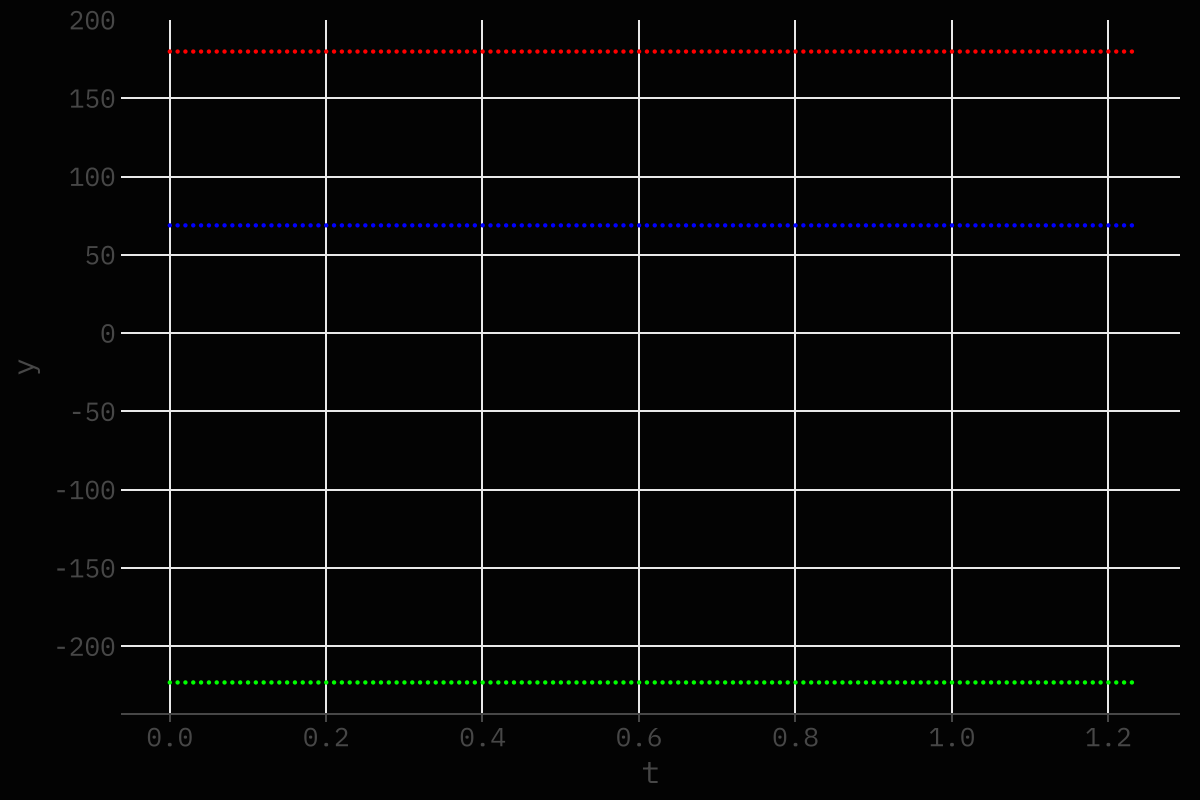
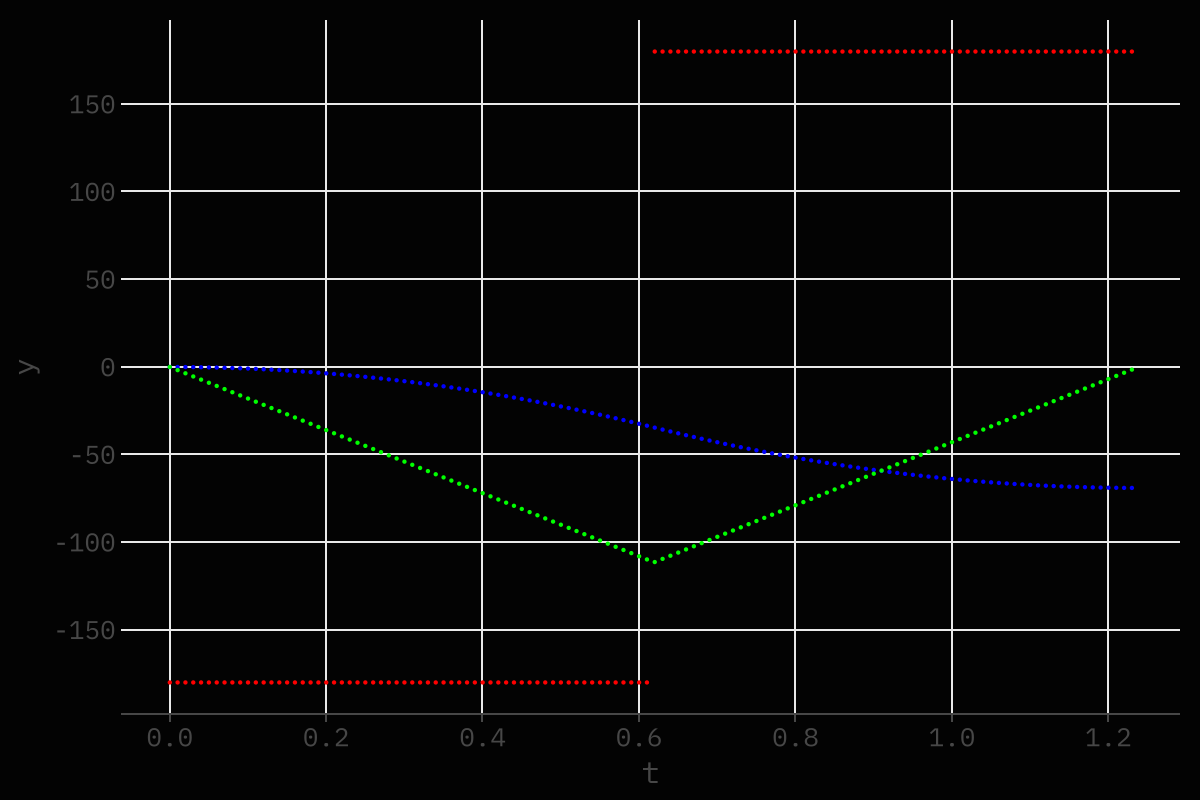
MP WORKS WOO

diff --git a/core/src/main/kotlin/com/asiankoala/koawalib/control/profile/MPTest.kt b/core/src/main/kotlin/com/asiankoala/koawalib/control/profile/MPTest.kt
@@ -1,5 +1,8 @@
 package com.asiankoala.koawalib.control.profile
 
+import com.asiankoala.koawalib.path.gvf.Constraints
+import com.asiankoala.koawalib.path.gvf.DispState
+import com.asiankoala.koawalib.path.gvf.OnlineProfile
 import jetbrains.letsPlot.elementRect
 import jetbrains.letsPlot.export.ggsave
 import jetbrains.letsPlot.geom.geomPoint
@@ -10,8 +13,8 @@ import jetbrains.letsPlot.theme
 internal object MPTest {
     @JvmStatic
     fun main(args: Array<String>) {
-        val end = MotionState(-69.0)
-        val start = MotionState(0.0)
+        val start = MotionState(-69.0)
+        val end = MotionState(0.0)
         val constraints = MotionConstraints(180.0, 180.0)
         val profile = MotionProfile.generateTrapezoidal(start, end, constraints)
 
@@ -32,6 +35,26 @@ internal object MPTest {
         }
 
         plot(st, sx, sv, sa)
+
+//        val start = DispState(0.0)
+//        val end = DispState(-69.0)
+//        val constraints = Constraints(180.0, 180.0)
+//        val profile = OnlineProfile(start, end, constraints)
+//        val sx = ArrayList<Double>()
+//        val sv = ArrayList<Double>()
+//        val resolution = 1.0
+//        var x = 0.0
+//
+//        while(x > end.x) {
+//            val state = profile[x]
+//            sx.add(x)
+//            sv.add(state.v)
+//            x -= resolution
+//        }
+//
+//        println(sx[60])
+//
+//        plotDisp(sx, sv)
     }
 
     private fun plot(
@@ -45,6 +68,17 @@ internal object MPTest {
                 geomPoint(color = "blue", size = 1.0) { x = "t"; y = "x" } +
                 geomPoint(color = "green", size = 1.0) { x = "t"; y = "v" } +
                 geomPoint(color = "red", size = 1.0) { x = "t"; y = "a" } +
+                theme(plotBackground = elementRect(fill = "black"))
+        ggsave(fig, "plot.png")
+    }
+
+    private fun plotDisp(
+        sx: ArrayList<Double>,
+        sv: ArrayList<Double>,
+    ) {
+        val data = mapOf<String, Any>("x" to sx, "v" to sv)
+        val fig = ggplot(data) +
+                geomPoint(color = "blue", size = 1.0) { x = "x"; y = "v" } +
                 theme(plotBackground = elementRect(fill = "black"))
         ggsave(fig, "plot.png")
     }

diff --git a/core/src/main/kotlin/com/asiankoala/koawalib/control/profile/MotionProfile.kt b/core/src/main/kotlin/com/asiankoala/koawalib/control/profile/MotionProfile.kt
@@ -46,6 +46,10 @@ class MotionProfile(vararg _periods: MotionPeriod, reversed: Boolean) {
                 start = endState
             }
 
+            println("reversed: $isReversed")
+            println("start: $start")
+            println("end: $end")
+
             start = start.copy(a = constraints.accel)
             end = end.copy(a = constraints.deccel)
 
@@ -71,7 +75,7 @@ class MotionProfile(vararg _periods: MotionPeriod, reversed: Boolean) {
                 deccelPeriod = MotionPeriod(accelPeriod.endState.copy(a = -newA), dt)
             }
 
-            return MotionProfile(accelPeriod, cruisePeriod, deccelPeriod, reversed = isReversed)
+            return MotionProfile(accelPeriod, cruisePeriod, deccelPeriod, reversed = true)
         }
     }
 }

diff --git a/core/src/main/kotlin/com/asiankoala/koawalib/control/profile/MotionPeriod.kt b/core/src/main/kotlin/com/asiankoala/koawalib/control/profile/MotionPeriod.kt
@@ -6,7 +6,7 @@ data class MotionPeriod(
 ) {
     val endState: MotionState
     val dx: Double
-    val flipped get() = MotionPeriod(endState.copy(v = -endState.v), -dt)
+    val flipped get() = MotionPeriod(endState.copy(v = -endState.v), dt)
 
     operator fun get(t: Double) = startState[t]
 
